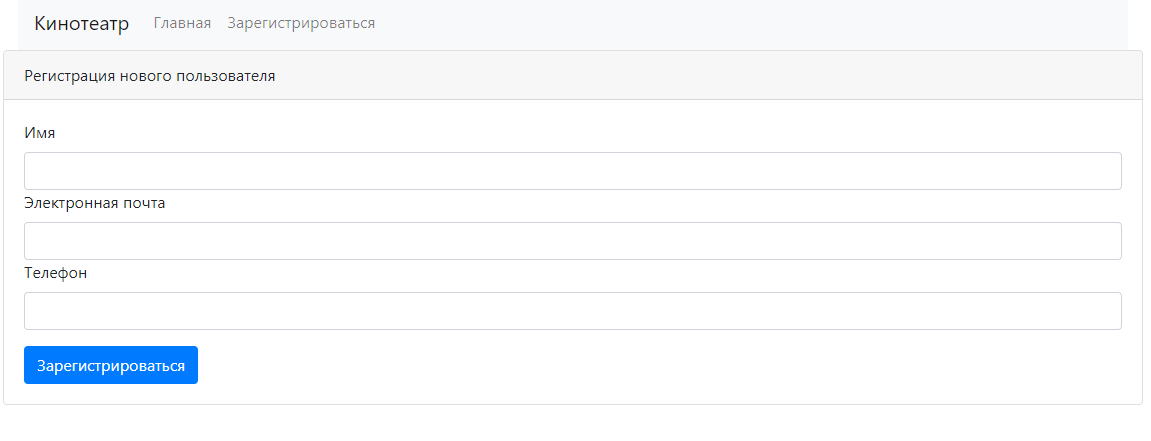
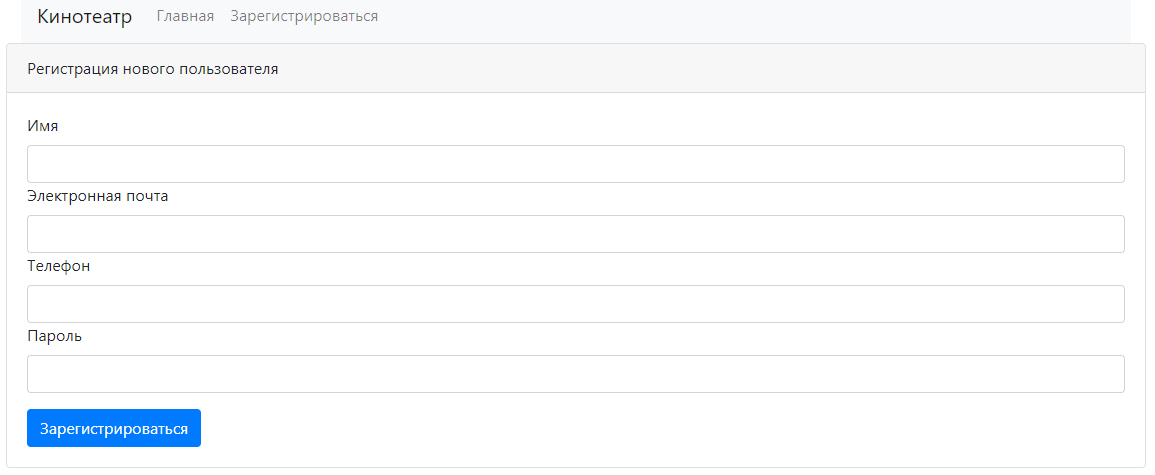
Для идентификации пользователя добавлен пароль

diff --git a/src/main/resources/templates/loginPage.html b/src/main/resources/templates/loginPage.html
@@ -26,14 +26,14 @@
             </div>
             <div class="card-body">
                 <div th:if="${fail}" class="alert alert-danger" role="alert">
-                    Email или телефон введены не верно!
+                    Email или пароль введены неверно!
                 </div>
                 <form th:action="@{/login}" method="POST">
                     <div class="form-group">
                         <label>Email</label>
                         <input class="form-control" name="email" type="text">
-                        <label>Телефон</label>
-                        <input class="form-control" name="phone" type="text">
+                        <label>Пароль</label>
+                        <input class="form-control" name="password" type="text">
                     </div>
                     <button type="submit" class="btn btn-primary">Войти</button>
                 </form>

diff --git a/src/main/resources/templates/addUser.html b/src/main/resources/templates/addUser.html
@@ -52,6 +52,8 @@
                         <input type="text" class="form-control" name="email" id="email">
                         <label for="phone">Телефон</label>
                         <input type="text" class="form-control" name="phone" id="phone">
+                        <label for="phone">Пароль</label>
+                        <input type="text" class="form-control" name="password" id="password">
                     </div>
                     <button type="submit" class="btn btn-primary">Зарегистрироваться</button>
                 </form>

diff --git a/src/main/resources/templates/fail.html b/src/main/resources/templates/fail.html
@@ -42,7 +42,7 @@
     </nav>
     <div class="row">
         <body>
-        <p>Пользователь с указанной почтой/телефоном уже существует</p>
+        <p>Пользователь с указанной почтой/паролем уже существует</p>
         </body>
     </div>
 </div>

diff --git a/src/main/java/ru/job4j/cinema/repository/UserRepository.java b/src/main/java/ru/job4j/cinema/repository/UserRepository.java
@@ -15,8 +15,8 @@ import java.util.Optional;
 @Repository
 public class UserRepository {
 
-    private static final String INSERT_USER = "INSERT INTO users(username, email, phone) VALUES (?, ?, ?)";
-    private static final String SELECT_USER_BY_EMAIL_AND_PHONE = "SELECT * FROM users WHERE email = ? AND phone = ?";
+    private static final String INSERT_USER = "INSERT INTO users(username, email, phone, password) VALUES (?, ?, ?, ?)";
+    private static final String SELECT_USER_BY_EMAIL_AND_PASSWORD = "SELECT * FROM users WHERE email = ? AND password = ?";
     private static final String SELECT_USER_BY_ID = "SELECT * FROM users WHERE id = ?";
 
     private static final Logger LOG = LogManager.getLogger(UserRepository.class.getName());
@@ -34,6 +34,7 @@ public class UserRepository {
             ps.setString(1, user.getUsername());
             ps.setString(2, user.getEmail());
             ps.setString(3, user.getPhone());
+            ps.setString(4, user.getPassword());
             ps.execute();
             try (ResultSet it = ps.getGeneratedKeys()) {
                 if (it.next()) {
@@ -47,12 +48,12 @@ public class UserRepository {
         return result;
     }
 
-    public Optional<User> findUserByEmailAndPhone(String email, String phone) {
+    public Optional<User> findUserByEmailAndPassword(String email, String password) {
         Optional<User> result = Optional.empty();
         try (Connection cn = pool.getConnection();
-             PreparedStatement ps =  cn.prepareStatement(SELECT_USER_BY_EMAIL_AND_PHONE)) {
+             PreparedStatement ps =  cn.prepareStatement(SELECT_USER_BY_EMAIL_AND_PASSWORD)) {
             ps.setString(1, email);
-            ps.setString(2, phone);
+            ps.setString(2, password);
             try (ResultSet it = ps.executeQuery()) {
                 while (it.next()) {
                     result = Optional.of(createUser(it));
@@ -82,6 +83,7 @@ public class UserRepository {
 
     private User createUser(ResultSet rs) throws SQLException {
         return new User(rs.getInt("id"), rs.getString("username"),
-                rs.getString("email"), rs.getString("phone"));
+                rs.getString("email"), rs.getString("phone"),
+                rs.getString("password"));
     }
 }

diff --git a/src/main/java/ru/job4j/cinema/model/User.java b/src/main/java/ru/job4j/cinema/model/User.java
@@ -8,14 +8,16 @@ public class User {
     private String username;
     private String email;
     private String phone;
+    private String password;
 
     public User() { }
 
-    public User(int id, String username, String email, String phone) {
+    public User(int id, String username, String email, String phone, String password) {
         this.id = id;
         this.username = username;
         this.email = email;
         this.phone = phone;
+        this.password = password;
     }
 
     public int getId() {
@@ -50,6 +52,14 @@ public class User {
         this.phone = phone;
     }
 
+    public String getPassword() {
+        return password;
+    }
+
+    public void setPassword(String password) {
+        this.password = password;
+    }
+
     @Override
     public boolean equals(Object o) {
         if (this == o) {
@@ -69,4 +79,5 @@ public class User {
     public int hashCode() {
         return Objects.hash(id, username, email, phone);
     }
+
 }

diff --git a/src/main/java/ru/job4j/cinema/controller/UserController.java b/src/main/java/ru/job4j/cinema/controller/UserController.java
@@ -32,7 +32,7 @@ public class UserController {
 
     @PostMapping("/login")
     public String login(@ModelAttribute User user, HttpServletRequest req) {
-        Optional<User> userDB = userService.findUserByEmailAndPhone(user.getEmail(), user.getPhone());
+        Optional<User> userDB = userService.findUserByEmailAndPassword(user.getEmail(), user.getPassword());
         if (userDB.isEmpty()) {
             return "redirect:/loginPage?fail=true";
         }
@@ -49,7 +49,7 @@ public class UserController {
 
     @GetMapping("/addUser")
     public String addUser(Model model, HttpSession session) {
-        model.addAttribute("newUser", new User(0, "Имя", "Почта", "Телефон"));
+        model.addAttribute("newUser", new User(0, "Имя", "Почта", "Телефон", "Пароль"));
         addAttributeUser(model, session);
         return "addUser";
     }

diff --git a/src/main/java/ru/job4j/cinema/service/UserService.java b/src/main/java/ru/job4j/cinema/service/UserService.java
@@ -19,8 +19,8 @@ public class UserService {
         return store.add(user);
     }
 
-    public Optional<User> findUserByEmailAndPhone(String email, String phone) {
-        return store.findUserByEmailAndPhone(email, phone);
+    public Optional<User> findUserByEmailAndPassword(String email, String password) {
+        return store.findUserByEmailAndPassword(email, password);
     }
 
     public Optional<User> findUserById(int userId) {
